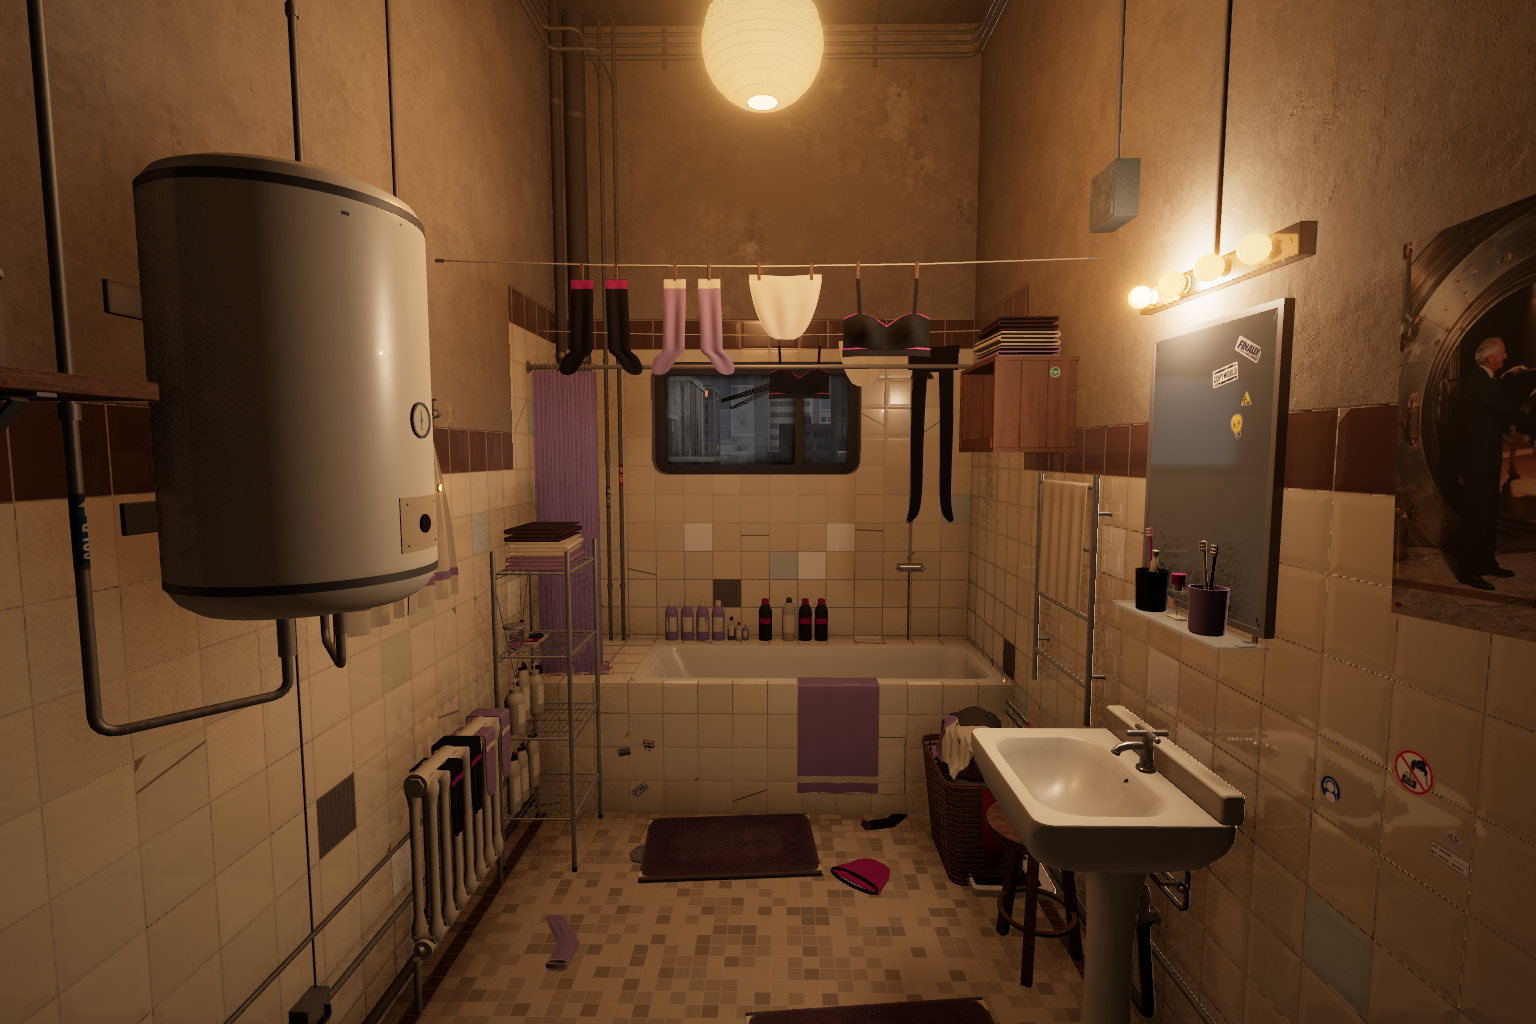
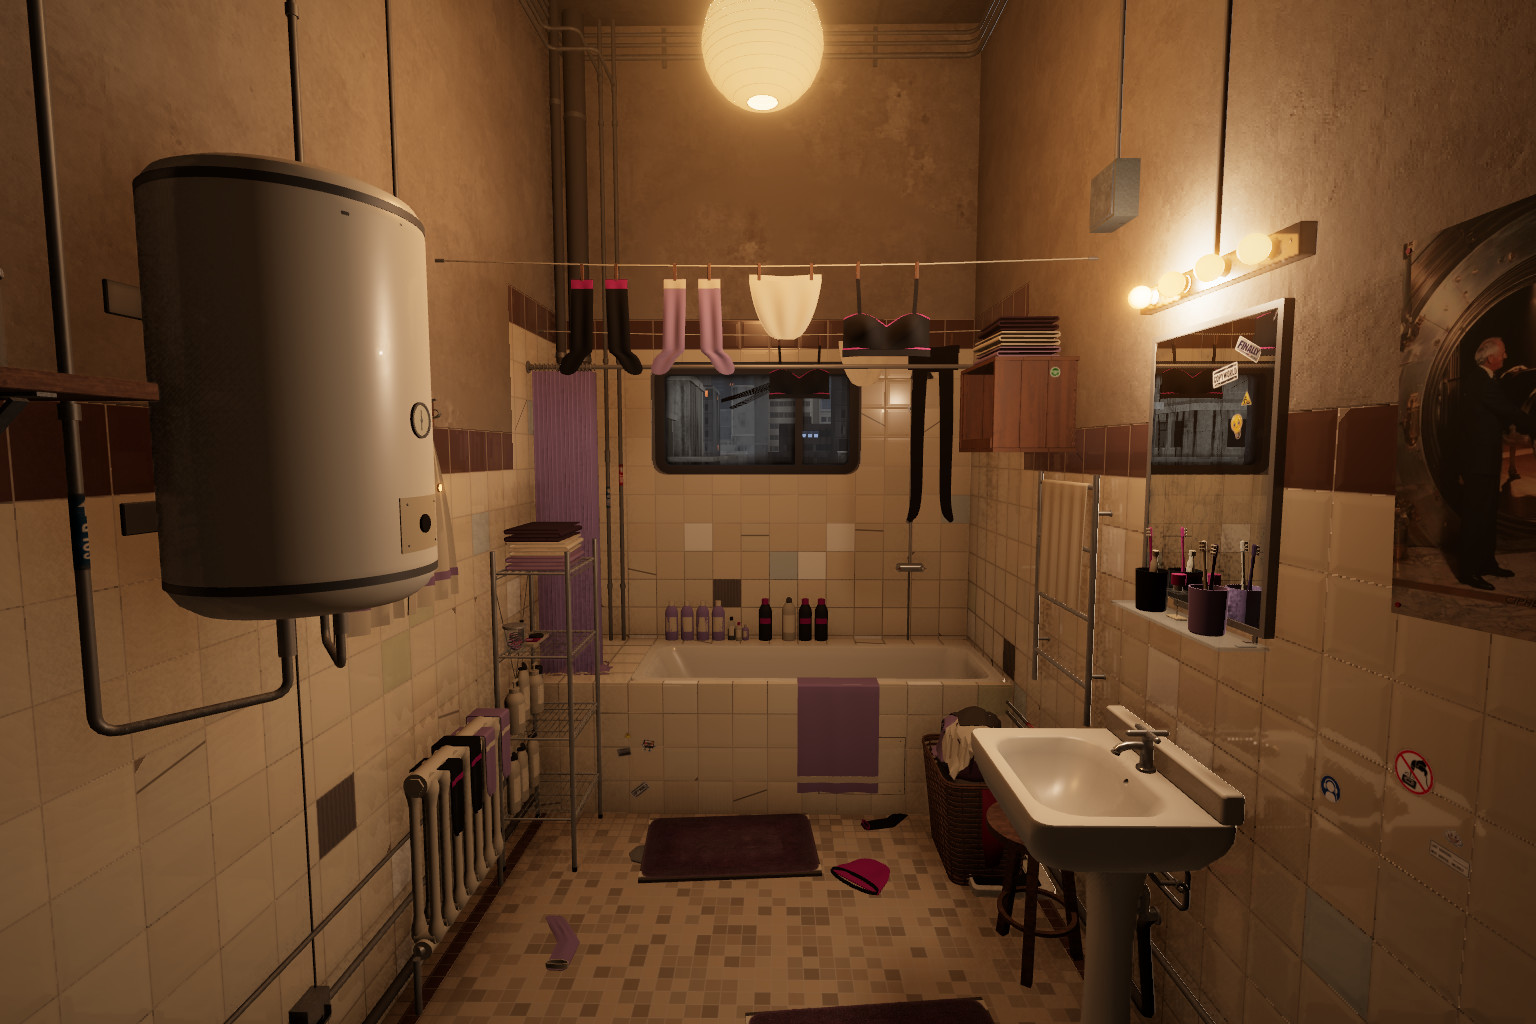
bathroom: publish live dirty mirror and reflected room views

Changed region(s): [[0.75, 0.2812, 0.8438, 0.625]]

diff --git a/concepts/bathroom-2026-10-10/index.html b/concepts/bathroom-2026-10-10/index.html
@@ -39,19 +39,30 @@
     <header>
       <p class="eyebrow">Leg City Sounds · Apartment</p>
       <h1>The bathroom, built</h1>
-      <p>The approved room now has finished enamel fixtures, timber and wire storage, toiletries, towels and everyday laundry. These are pictures from the live apartment, with warm lantern and mirror light.</p>
-      <nav class="links" aria-label="Bathroom review links"><a href="https://lcs-rooms.up.railway.app/?q=high&amp;t=19">Open the live apartment</a><a href="../../props/?item=bathtub-alcove">Inspect the models</a><a href="#approved">See the approved concepts</a></nav>
+      <p>The bathroom now has a working old mirror: the room moves in its reflection, behind water spots, wiping traces and grime along the edges. The worn frame, stickers and glass shelf remain.</p>
+      <nav class="links" aria-label="Bathroom review links"><a href="#mirror">See the dirty mirror</a><a href="https://lcs-rooms.up.railway.app/?q=high&amp;t=19">Open the live apartment</a><a href="../../props/?item=wall-mirror">Inspect the models</a><a href="#approved">See the approved concepts</a></nav>
     </header>
+    <section aria-labelledby="mirror" style="margin-top:0;margin-bottom:38px"><h2 id="mirror">A dirty mirror that reflects the room</h2>
+      <div class="views">
+        <figure><figcaption>At the basin · warm evening light</figcaption><a href="mirror-close.jpg"><img src="mirror-close.jpg" alt="A dirty bathroom mirror reflecting the opposite towels and cream boiler, with wiping smears, dried splash rings, old silvering chips and stickers." width="1536" height="1024" fetchpriority="high"></a><a class="open" href="mirror-close.jpg">Open full size</a></figure>
+        <figure><figcaption>Looking from the bath · reflected laundry and shelf</figcaption><a href="mirror-side-a.jpg"><img src="mirror-side-a.jpg" alt="The same bathroom mirror seen from the side, correctly reflecting hanging laundry, the shower curtain and wire toiletries rack." width="1536" height="1024"></a><a class="open" href="mirror-side-a.jpg">Open full size</a></figure>
+      </div>
+      <div class="extras" style="margin-top:24px">
+        <figure><figcaption>The other side</figcaption><a href="mirror-side-b.jpg"><img src="mirror-side-b.jpg" alt="The mirror viewed from the other side, showing a different reflected portion of the bathroom." width="1536" height="1024" loading="lazy"></a></figure>
+        <figure><figcaption>Daylight</figcaption><a href="mirror-daylight.jpg"><img src="mirror-daylight.jpg" alt="The dirty bathroom mirror and basin in daylight." width="1536" height="1024" loading="lazy"></a></figure>
+        <figure><figcaption>Night</figcaption><a href="mirror-night.jpg"><img src="mirror-night.jpg" alt="The bathroom mirror at night under the warm vanity bar, reflecting the towels and boiler." width="1536" height="1024" loading="lazy"></a></figure>
+      </div>
+    </section>
     <div class="views" id="built">
       <figure>
         <figcaption><span class="number">01 · LIVE</span> From the entrance toward the bath</figcaption>
-        <a href="progress-a.jpg"><img src="progress-a.jpg" alt="The built bathroom viewed from the entrance, with enamel bathtub and basin, cream boiler, radiator, wire rack and laundry under warm light." width="1536" height="1024" fetchpriority="high"></a>
-        <a class="open" href="progress-a.jpg">Open full size</a>
+        <a href="progress-a.jpg?mirror=6a9bf9d"><img src="progress-a.jpg?mirror=6a9bf9d" alt="The built bathroom viewed from the entrance, with enamel bathtub and basin, cream boiler, radiator, wire rack and laundry under warm light." width="1536" height="1024" fetchpriority="high"></a>
+        <a class="open" href="progress-a.jpg?mirror=6a9bf9d">Open full size</a>
       </figure>
       <figure>
         <figcaption><span class="number">02 · LIVE</span> From the bath back toward the entrance</figcaption>
-        <a href="progress-b.jpg"><img src="progress-b.jpg" alt="The built bathroom viewed toward the entrance door, showing the basin and mirror, hanging robe, boiler, towels and toilet." width="1536" height="1024"></a>
-        <a class="open" href="progress-b.jpg">Open full size</a>
+        <a href="progress-b.jpg?mirror=6a9bf9d"><img src="progress-b.jpg?mirror=6a9bf9d" alt="The built bathroom viewed toward the entrance door, showing the basin and mirror, hanging robe, boiler, towels and toilet." width="1536" height="1024"></a>
+        <a class="open" href="progress-b.jpg?mirror=6a9bf9d">Open full size</a>
       </figure>
     </div>
     <section aria-labelledby="states"><h2 id="states">Daylight, night and the curtain</h2><div class="extras">
@@ -73,7 +84,7 @@
       </figure>
     </div>
     </details>
-    <footer>56 finished model types · Bathroom implementation 7c41de4 · 10 October 2026.<br>Tap any picture to inspect it at full size. Cloth is still smoother than in the concept artwork.</footer>
+    <footer>Dirty mirror update 6a9bf9d · 11 October 2026 · 56 finished model types.<br>Tap any picture to inspect it at full size. The reflection is softer on phone quality. Cloth is still smoother than in the concept artwork.</footer>
   </main>
 </body>
 </html>
